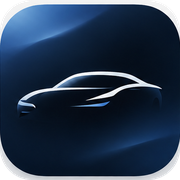
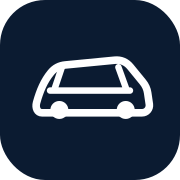
Add files via upload

diff --git a/index.html b/index.html
@@ -4,11 +4,14 @@
 <meta charset="utf-8">
 <meta name="viewport" content="width=device-width, initial-scale=1, viewport-fit=cover">
 <meta name="apple-mobile-web-app-title" content="Андрей Степанов">
-<link rel="icon" type="image/svg+xml" href="favicon.svg?v=5">
-<link rel="icon" type="image/png" sizes="32x32" href="favicon-32.png?v=5">
-<link rel="icon" type="image/png" sizes="512x512" href="site-icon.png?v=5">
-<link rel="apple-touch-icon" sizes="180x180" href="apple-touch-icon.png?v=5">
-<link rel="icon" href="favicon.ico?v=5" sizes="any">
+<meta name="application-name" content="Андрей Степанов">
+<link rel="icon" href="favicon.svg?v=20260908" type="image/svg+xml">
+<link rel="icon" href="favicon-16x16.png?v=20260908" type="image/png" sizes="16x16">
+<link rel="icon" href="favicon-32x32.png?v=20260908" type="image/png" sizes="32x32">
+<link rel="icon" href="favicon-48x48.png?v=20260908" type="image/png" sizes="48x48">
+<link rel="apple-touch-icon" href="apple-touch-icon.png?v=20260908" sizes="180x180">
+<link rel="manifest" href="site.webmanifest?v=20260908">
+<meta name="mobile-web-app-capable" content="yes">
 <meta name="theme-color" content="#fafafa">
 <meta name="description" content="Андрей Степанов — заместитель директора подразделения, Газпромбанк Автолизинг. Лизинг автомобилей и спецтехники для бизнеса по всей России.">
 <title>Андрей Степанов — Газпромбанк Автолизинг</title>
